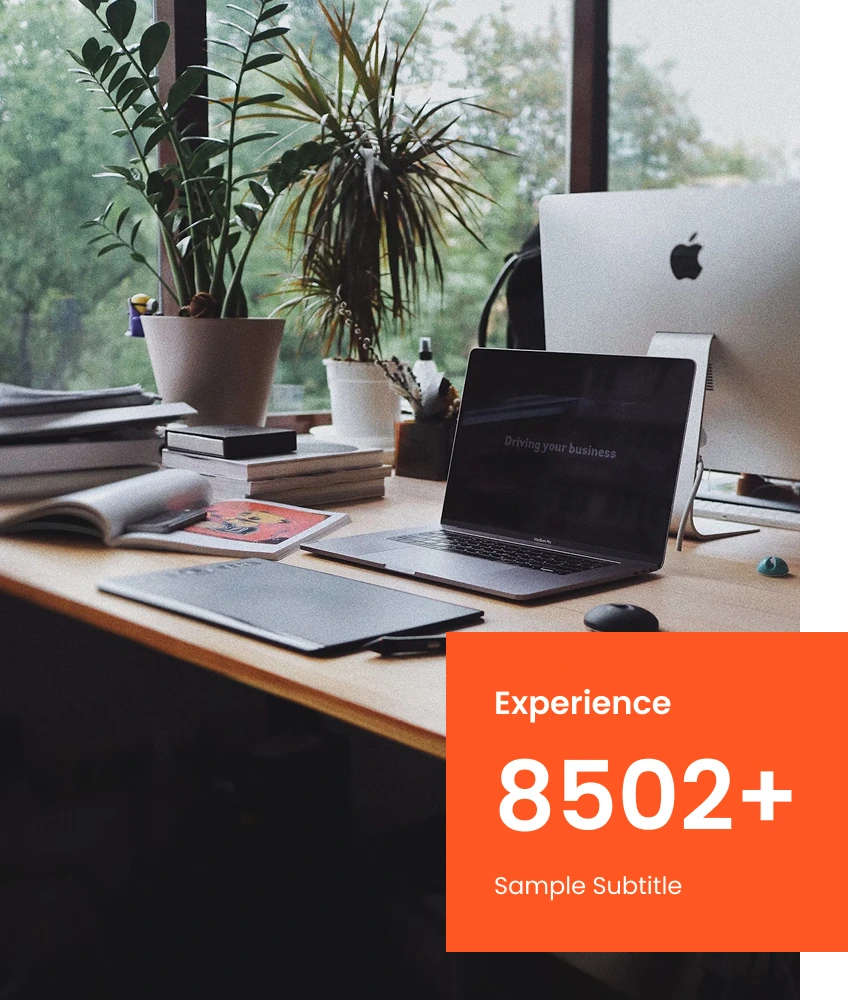
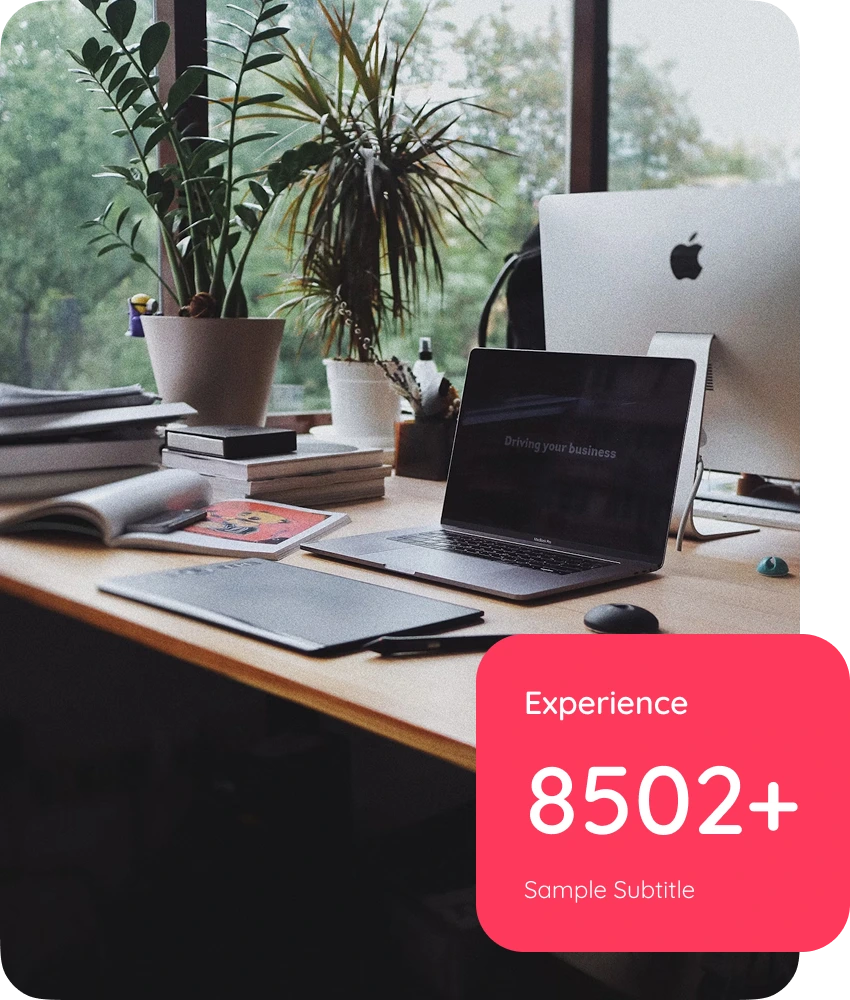
Update: styles

diff --git a/luna/theme/ThemeOptions.ts b/luna/theme/ThemeOptions.ts
@@ -1,14 +1,25 @@
-import { deepOrange, grey, indigo } from '@mui/material/colors'
+import { grey } from '@mui/material/colors'
 import { Typography } from './typography'
+import { lunaPurple, lunaRed } from './colors'
 
 export const themeOptions = {
   palette: {
-    primary: indigo,
-    secondary: deepOrange,
+    primary: {
+      main: lunaPurple[500],
+      light: lunaPurple[300],
+      dark: lunaPurple[700],
+      contrastText: '#fff'
+    },
+    secondary: {
+      main: lunaRed[500],
+      light: lunaRed[300],
+      dark: lunaRed[700],
+      contrastText: '#fff'
+    },
     text: {
       primary: grey[900],
       secondary: grey[800],
-      disabled: grey[400]
+      disabled: grey[500]
     },
     divider: grey[200],
     background: {

diff --git a/luna/components/button/index.tsx b/luna/components/button/index.tsx
@@ -7,7 +7,7 @@ export const Button = styled(MuiButton)<ButtonProps>(({ theme }) => ({
   height: '44px',
   fontSize: '14px',
   textTransform: 'none',
-  borderRadius: 0,
+  borderRadius: '16px',
   boxShadow: 'none',
   fontWeight: 500,
   '&:hover': { boxShadow: 'none' },
@@ -51,7 +51,11 @@ export const Button = styled(MuiButton)<ButtonProps>(({ theme }) => ({
 
     {
       props: { size: 'small' },
-      style: { height: '32px', fontSize: '12px' }
+      style: {
+        borderRadius: '12px',
+        height: '32px',
+        fontSize: '12px'
+      }
     },
     {
       props: { size: 'large' },

diff --git a/luna/components/checkbox/index.tsx b/luna/components/checkbox/index.tsx
@@ -4,7 +4,7 @@ import { Checkbox as MuiCheckbox, CheckboxProps } from '@mui/material'
 import { green } from '@mui/material/colors'
 
 const BpIcon = styled('span')<CheckboxProps>(({ theme }) => ({
-  borderRadius: 0,
+  borderRadius: '6px',
   width: 20,
   height: 20,
   backgroundColor: theme.palette.background.paper,
@@ -14,7 +14,7 @@ const BpIcon = styled('span')<CheckboxProps>(({ theme }) => ({
 const BpCheckedIcon = styled(BpIcon)({
   backgroundColor: green[500],
   border: `1.5px solid ${green[500]}`,
-  borderRadius: 0,
+  borderRadius: '6px',
   width: 20,
   height: 20,
 

diff --git a/luna/theme/colors/index.ts b/luna/theme/colors/index.ts
@@ -1,0 +1,25 @@
+export const lunaPurple = {
+  50: '#ECE7FB',
+  100: '#C6B7F2',
+  200: '#A087EA',
+  300: '#7A57E1',
+  400: '#5427D8',
+  500: '#410FD4',
+  600: '#3B0EBF',
+  700: '#340CAA',
+  800: '#2E0B94',
+  900: '#27097F'
+}
+
+export const lunaRed = {
+  50: '#FFEBEF',
+  100: '#FFC4CE',
+  200: '#FF9CAE',
+  300: '#FF748D',
+  400: '#FF4D6C',
+  500: '#FF395C',
+  600: '#E63353',
+  700: '#CC2E4A',
+  800: '#B32840',
+  900: '#992237'
+}

diff --git a/luna/blocks/_callToAction/_callToAction_001/index.tsx b/luna/blocks/_callToAction/_callToAction_001/index.tsx
@@ -17,7 +17,8 @@ export function CallToAction001() {
             gap: '24px',
             justifyContent: 'space-between',
             backgroundColor: theme.palette.secondary.main,
-            padding: '24px'
+            padding: '24px',
+            borderRadius: '24px'
           }}
         >
           <Box sx={{ display: 'flex', flexDirection: 'column', gap: '8px' }}>

diff --git a/luna/blocks/_callToAction/_callToAction_002/index.tsx b/luna/blocks/_callToAction/_callToAction_002/index.tsx
@@ -42,7 +42,8 @@ export function CallToAction002() {
               minWidth: 'fit-content',
               width: { md: 'auto', xs: '100%' },
               gap: '16px',
-              alignItems: 'center'
+              alignItems: 'center',
+              borderRadius: '24px'
             }}
           >
             <Typography variant='bodyLarge' color='white'>

diff --git a/luna/blocks/_iconBox/_iconBox_002/index.tsx b/luna/blocks/_iconBox/_iconBox_002/index.tsx
@@ -21,7 +21,8 @@ export function IconBox002() {
                 alignItems: 'center',
                 gap: '8px',
                 backgroundColor: theme.palette.background.paper,
-                padding: '24px'
+                padding: '24px',
+                borderRadius: '24px'
               }}
             >
               {item.icon}

diff --git a/luna/blocks/_iconBox/_iconBox_001/index.tsx b/luna/blocks/_iconBox/_iconBox_001/index.tsx
@@ -14,7 +14,8 @@ export function IconBox001() {
           container
           sx={{
             padding: '24px',
-            backgroundColor: theme.palette.background.paper
+            backgroundColor: theme.palette.background.paper,
+            borderRadius: '24px'
           }}
         >
           {items.map((item, _) => (

diff --git a/luna/components/textField/index.tsx b/luna/components/textField/index.tsx
@@ -19,7 +19,7 @@ const CustomTextField = styled(TextFieldMui)<TextFieldProps>({
     },
     '& fieldset': {
       borderColor: grey[400],
-      borderRadius: 0,
+      borderRadius: '16px',
       '& legend': {
         visibility: 'unset',
         backgroundColor: '#fff'

diff --git a/luna/blocks/_hero/_hero_001/index.tsx b/luna/blocks/_hero/_hero_001/index.tsx
@@ -53,7 +53,8 @@ export function Hero001() {
             width: '100%',
             maxWidth: '600px',
             height: '500px',
-            objectFit: 'cover'
+            objectFit: 'cover',
+            borderRadius: '24px'
           }}
         />
       </Box>

diff --git a/luna/blocks/_footer/_footer_001/index.tsx b/luna/blocks/_footer/_footer_001/index.tsx
@@ -138,7 +138,7 @@ export function Footer001() {
                 sx={{ textDecoration: 'none' }}
                 startIcon={<IconPhoneCall />}
               >
-                demo@luna.com
+                0800 123 45 67
               </Button>
             </Box>
 

diff --git a/luna/theme/styleOverrides/index.ts b/luna/theme/styleOverrides/index.ts
@@ -39,7 +39,7 @@ export const StyleOverrides = {
         root: {
           border: '1px solid',
           borderColor: grey[200],
-          borderRadius: 0
+          borderRadius: '12px'
         }
       }
     }
